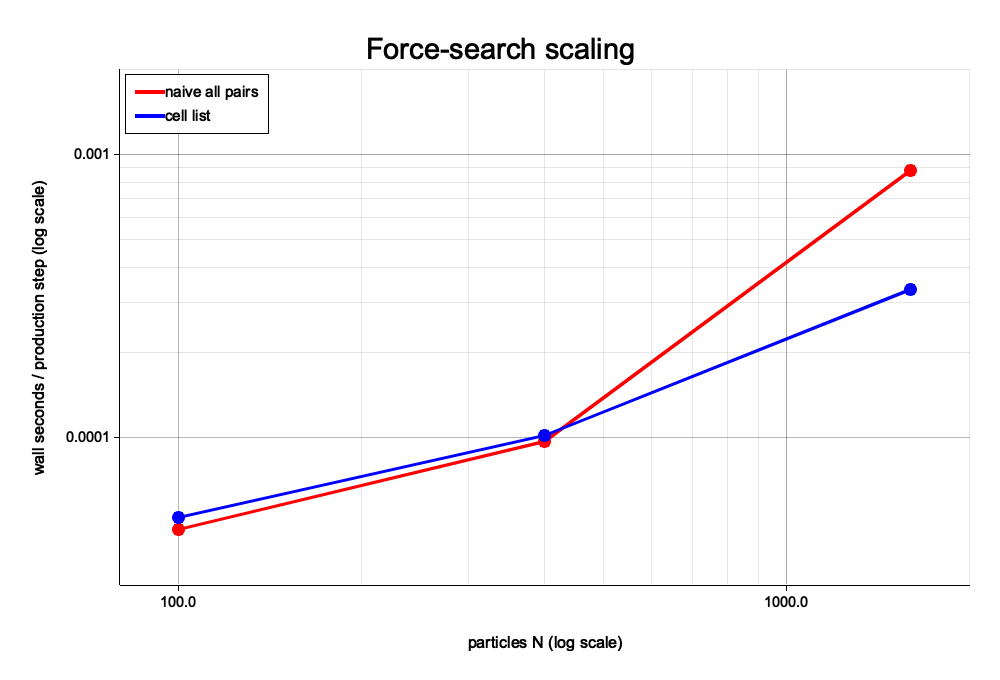
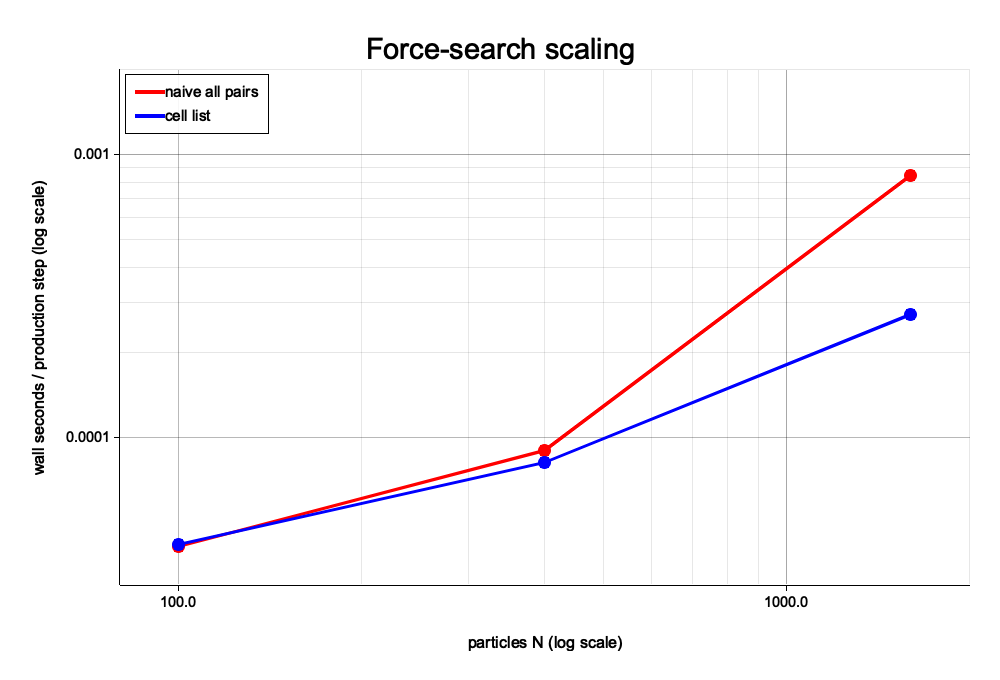
perf: remove cell-list allocation bottleneck

diff --git a/week2/md/src/simulation.rs b/week2/md/src/simulation.rs
@@ -290,37 +290,51 @@ fn for_each_periodic_pair(
                 (box_size[0] / cutoff).floor() as usize,
                 (box_size[1] / cutoff).floor() as usize,
             ];
+            let cell_total = cell_counts[0] * cell_counts[1];
             let cell_widths = [
                 box_size[0] / cell_counts[0] as f64,
                 box_size[1] / cell_counts[1] as f64,
             ];
-            let mut atom_cells = Vec::with_capacity(positions.len());
-            let mut bins = vec![Vec::new(); cell_counts[0] * cell_counts[1]];
+            let cell_of = |position: &[f64; 2]| {
+                let x = ((position[0] / cell_widths[0]).floor() as usize).min(cell_counts[0] - 1);
+                let y = ((position[1] / cell_widths[1]).floor() as usize).min(cell_counts[1] - 1);
+                (x, y, y * cell_counts[0] + x)
+            };
+
+            let mut offsets = vec![0_usize; cell_total + 1];
+            for position in positions {
+                offsets[cell_of(position).2 + 1] += 1;
+            }
+            for cell in 1..=cell_total {
+                offsets[cell] += offsets[cell - 1];
+            }
+            let mut cursors = offsets[..cell_total].to_vec();
+            let mut atoms = vec![0_usize; positions.len()];
             for (atom, position) in positions.iter().enumerate() {
-                let cell = [
-                    ((position[0] / cell_widths[0]).floor() as usize).min(cell_counts[0] - 1),
-                    ((position[1] / cell_widths[1]).floor() as usize).min(cell_counts[1] - 1),
-                ];
-                atom_cells.push(cell);
-                bins[cell[1] * cell_counts[0] + cell[0]].push(atom);
+                let id = cell_of(position).2;
+                atoms[cursors[id]] = atom;
+                cursors[id] += 1;
             }
 
-            for (i, cell) in atom_cells.iter().enumerate() {
-                let mut neighbor_ids = Vec::with_capacity(9);
+            for (i, position) in positions.iter().enumerate() {
+                let (cell_x, cell_y, _) = cell_of(position);
+                let mut neighbor_ids = [usize::MAX; 9];
+                let mut neighbor_count = 0;
                 for offset_y in -1..=1 {
                     for offset_x in -1..=1 {
-                        let x = (cell[0] as isize + offset_x).rem_euclid(cell_counts[0] as isize)
+                        let x = (cell_x as isize + offset_x).rem_euclid(cell_counts[0] as isize)
                             as usize;
-                        let y = (cell[1] as isize + offset_y).rem_euclid(cell_counts[1] as isize)
+                        let y = (cell_y as isize + offset_y).rem_euclid(cell_counts[1] as isize)
                             as usize;
                         let id = y * cell_counts[0] + x;
-                        if !neighbor_ids.contains(&id) {
-                            neighbor_ids.push(id);
+                        if !neighbor_ids[..neighbor_count].contains(&id) {
+                            neighbor_ids[neighbor_count] = id;
+                            neighbor_count += 1;
                         }
                     }
                 }
-                for id in neighbor_ids {
-                    for &j in &bins[id] {
+                for &id in &neighbor_ids[..neighbor_count] {
+                    for &j in &atoms[offsets[id]..offsets[id + 1]] {
                         if j > i {
                             consider(i, j);
                         }

diff --git a/week2/md/examples/scaling.rs b/week2/md/examples/scaling.rs
@@ -4,14 +4,14 @@ use std::path::PathBuf;
 use plotters::prelude::*;
 
 const NAIVE: [(f64, f64); 3] = [
-    (100.0, 0.023_572_083 / 500.0),
-    (400.0, 0.048_330_625 / 500.0),
-    (1600.0, 0.441_588_833 / 500.0),
+    (100.0, 0.020_553 / 500.0),
+    (400.0, 0.044_888 / 500.0),
+    (1600.0, 0.424_317 / 500.0),
 ];
 const CELLS: [(f64, f64); 3] = [
-    (100.0, 0.025_951_500 / 500.0),
-    (400.0, 0.050_668_541 / 500.0),
-    (1600.0, 0.166_970_834 / 500.0),
+    (100.0, 0.020_786 / 500.0),
+    (400.0, 0.040_644 / 500.0),
+    (1600.0, 0.136_003 / 500.0),
 ];
 
 fn main() -> Result<(), Box<dyn Error>> {

diff --git a/week2/README.md b/week2/README.md
@@ -76,7 +76,7 @@ It contains all 200 trajectory frames (10 seconds), with no duplicated or
 dropped frames, and is 738759 bytes. Each frame shows the periodic particle box
 beside a 64-bin radial distribution averaged over up to 20 recent samples.
 
-## Release timing
+## Timing
 
 The supplied NumPy solver and Rust's retained naive path were each run three
 times with the default 100-particle, 2000-step equilibration and 10000-step
@@ -93,7 +93,17 @@ The release median is 6.3% of the debug median, below the required one-third
 threshold. The slower first release invocation is retained rather than hidden;
 the median makes the cold-start effect explicit without discarding a run.
 
-## Cell-list force search
+The timed commands were:
+
+~~~bash
+time /tmp/amat5315-numpy-venv-20260909/bin/python week2-sim.py
+cargo build --manifest-path md/Cargo.toml
+time ./md/target/debug/md run --force naive --out /tmp/md-debug
+cargo build --manifest-path md/Cargo.toml --release
+time ./md/target/release/md run --force naive --out /tmp/md-release
+~~~
+
+## Benchmark: cell-list force search
 
 Select either implementation with `--force naive` or `--force cells`; cells is
 the default. The cell grid uses `floor(L/rc)` cells per direction, making every
@@ -111,9 +121,9 @@ md run --n N --eq-steps 100 --steps 500 --force METHOD --out /tmp/run
 
 | N | naive median (range), s | cells median (range), s | speedup |
 |---:|---:|---:|---:|
-| 100 | 0.0236 (0.0201–0.3711) | 0.0260 (0.0248–0.0287) | 0.91× |
-| 400 | 0.0483 (0.0471–0.0532) | 0.0507 (0.0498–0.0511) | 0.95× |
-| 1600 | 0.4416 (0.4371–0.4426) | 0.1670 (0.1653–0.1674) | 2.64× |
+| 100 | 0.0206 (0.0176–0.3101) | 0.0208 (0.0203–0.0242) | 0.99× |
+| 400 | 0.0449 (0.0436–0.0455) | 0.0406 (0.0398–0.0407) | 1.10× |
+| 1600 | 0.4243 (0.4223–0.4243) | 0.1360 (0.1353–0.1371) | 3.12× |
 
 At small N, process startup, JSON output, bin construction, and allocation hide
 the force-search saving. At N=1600 the all-pairs candidate count grows as
@@ -130,7 +140,7 @@ cargo run --manifest-path md/Cargo.toml --release --example scaling -- scaling.p
 The figure reports each full-command median divided by the 500 production
 steps. See `scaling.png`.
 
-## Profiles
+## Profile
 
 Both profiles use N=400, 200 equilibration steps, and 1000 production steps:
 
@@ -141,12 +151,18 @@ samply record md run --n 400 --eq-steps 200 --steps 1000 \
   --force cells --out /tmp/profile-cells
 ~~~
 
-The symbolicated profiles span 109 ms (naive) and 112 ms (cells). In the naive
+| Version | Force share (%) | Elapsed time (s) |
+|---|---:|---:|
+| Naive | 95.7 | 0.109 |
+| Cell list | 96.4 | 0.095 |
+
+The symbolicated profiles span 109 ms (naive) and 95 ms (cells). In the naive
 profile, `accelerations` accounts for 90 of 94 samples inside `simulate`
 (95.7%; 82.6% of the complete command). In the cells profile it accounts for
-97 of 103 simulation samples (94.2%; 86.6% of the command), now including bin
-construction and neighbor lookup. The evidence is saved as `profile-naive.png`
-and `profile-cells.png`.
+81 of 84 simulation samples (96.4%; 85.3% of the command), now including flat
+bin construction and neighbor lookup. The optimized elapsed time is below the
+naive elapsed time. The evidence is saved as `profile-naive.png` and
+`profile-cells.png`.
 
 ## Heating and melting
 
@@ -170,13 +186,15 @@ the RMS deviation of g(r) from 1 is 0.549 for the cold solid and 0.109 for the
 hot fluid: the cold trajectory retains distant peaks, while the hot trajectory
 retains mainly short-range order.
 
-## Interactive heating page
+## Pages
 
-The supplied viewer is committed at `docs/index.html`. Its adjacent data is a
+The supplied viewer is committed at the repository root's `docs/index.html`.
+Its adjacent data is a
 400-particle ramp from 0.2 to 1.2 over 20000 production steps, sampled every
 100 steps:
 
 ~~~bash
+cd ..
 md run --n 400 --temperature 0.2 --ramp-to 1.2 --steps 20000 \
   --sample-every 100 --out docs
 ~~~
